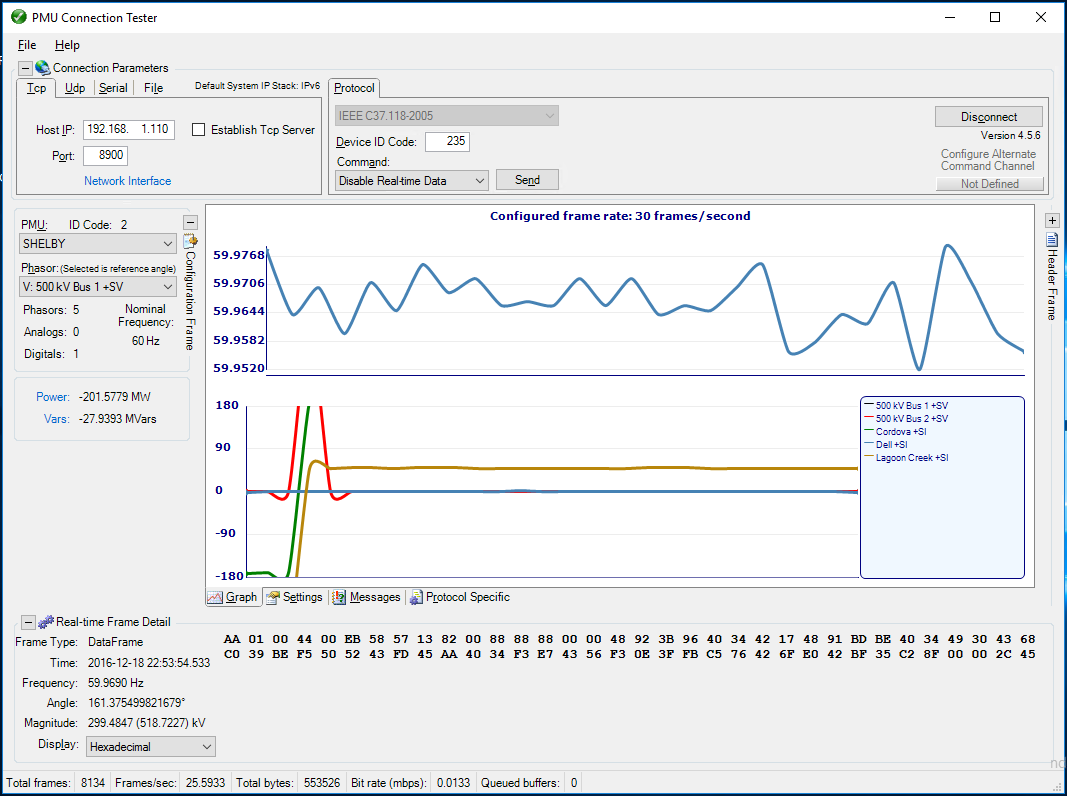
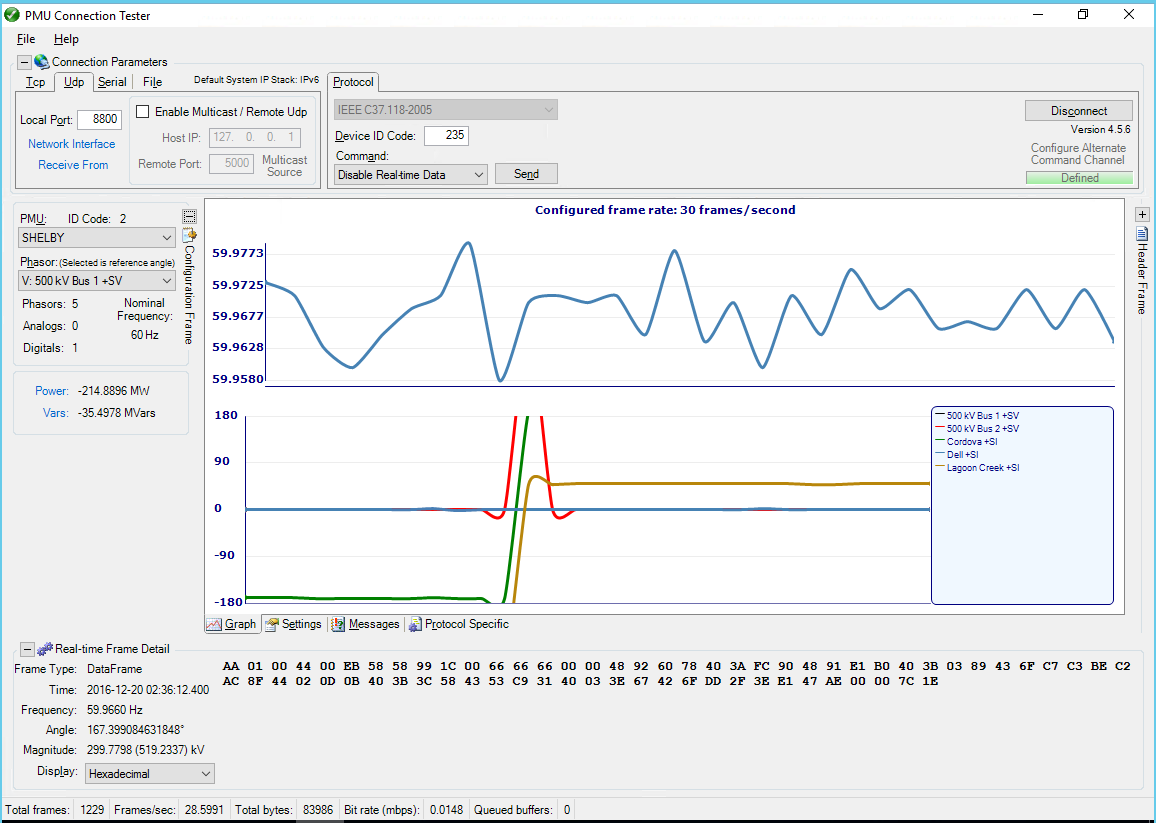
wiki/Development_Exercises updated

Changed region(s): [[0.0, 0.0, 1.0, 1.0], [0.1856, 0.6633, 0.2165, 0.6935], [0.1856, 0.5427, 0.2165, 0.5729]]

diff --git a/Source/Documentation/wiki/Exercise_openPDC_and_PMUConnectionTester_in_Windows2016.md b/Source/Documentation/wiki/Exercise_openPDC_and_PMUConnectionTester_in_Windows2016.md
@@ -375,8 +375,12 @@ C:\Users\Administrator> ping time.nist.gov
 
 1. Run the **openPDC Manager** application
 2. Click the *Outputs* menu and select *Concentrator Output Streams* and review the `TESTSTREAM` properties
-    - Set the *TCP Channel* text to "Port=8900;Interface=0.0.0.0" (this will force openPDC to use IPv4)
-    - Clear the *UDP Channel* text
+    - Set the *TCP Channel* text to "`Port=8900; maxSendQueueSize=-1; interface=0.0.0.0`" (this will force openPDC to use IPv4)
+        - Alternatively you can click the *Build Command Channel String* icon button (to the right of the *TCP Channel textbox)
+            - [![](Development_Exercises.files/openPDC_Manager_ManageOutputStreams_TCP_Channel_ConnectionStringBuilder.png)]()
+    - Set the *UDP Channel* text to "`port=-1; clients=localhost:8800,pmu-tester.gpa.net:8801; interface=0.0.0.0`"
+        - Alternatively you can click the *Build Command Channel String* icon button (to the right of the *UDP Channel textbox)
+            - [![](Development_Exercises.files/openPDC_Manager_ManageOutputStreams_UDP_Channel_ConnectionStringBuilder.png)]()
     - Click the *Save* button
     - Click the *Initialize* button
     - [![](Development_Exercises.files/openPDC_Manager_ManageOutputStreams_01.png "openPDC_Manager, ManageOutputStreams")]()
@@ -391,15 +395,21 @@ C:\Users\Administrator> ping time.nist.gov
     - Select the *Settings* tab (in the lower middle of the screen). In the *Applications Settings* section, set the following parameters:
         - Set the *ForceIPv4* value to `True`
         - Set the *MaximumFrameDisplayBytes* value to `512` (the IEEE C37-118 Configuration Frame Size)
-    - Select the *TCP* tab in the *Connection Parameters*
-        - Set the *Host IP* value to `192.168.1.110` (the `OPDC-01` Server's IPv4 Address)
-        - Set the *Port* value to `8900` (to match the openPDC Output Stream's *TCP Channel* Port#)
+    - Select the *UDP* tab in the *Connection Parameters*
+        - Set the *Local Port* value to `8800` (to match the openPDC Output Stream's *UDP Channel* Port#)
+        - Click the *Receive From* link and set *Use Specific Source IP* value to `192.168.1.110` (the `OPDC-01` Server's IPv4 Address)
+            - [![](Development_Exercises.files/PMUConnectionTester_openPDC_TestStream_Config_01A.png)]()
     - In the *Protocol* tab
         - Select the `IEEE C37.118.2005` protocol
+        - Click the *Configure Alternate Command Channel* link 
+            - Set the *Tcp Host IP* value to `192.168.1.110`
+            - Set the *Port* value to `8900`
+            - Clear the *Not defined* checkbox
+            - [![](Development_Exercises.files/PMUConnectionTester_openPDC_TestStream_Config_02A.png)]()
     - Click the *Connect* button
     - [![](Development_Exercises.files/PMUConnectionTester_openPDC_TestStreamTest_01.png "PMU Connection Tester, openPDC TestStream Test 1")]()
 
-### Configure the Windows Firewall on the `OPDC-01` Server for the Output Stream TCP Port 8900
+### Configure the Windows Firewall on the `OPDC-01` Server for the Output Stream TCP Port 8900 and UDP Ports 8800 to 8809
 
 **Do the following tasks in the `OPDC-01` Server:**
 
@@ -412,9 +422,17 @@ C:\Users\Administrator> ping time.nist.gov
     - *Protocol and Ports* = **TCP** and *Specific local ports* = **`8900`**
     - *Action* = **Allow the Connection**
     - *Profile* = Check all profiles.  Note: this exercise needs only the **Private** profile checked
-    - *Name* = **openPDC Output Steam TCP 8900**.  Note: this can be any name you want
-6. Make sure the new **openPDC Output Steam TCP 8900** *Inbound Rule* is *Enabled* and open it up to review its properties
-    - [![](Development_Exercises.files/Firewall_Inbound_Rule_TCP8900.png "openPDC Output Steam TCP 8900")]()
+    - *Name* = **openPDC Output Stream TCP 8900**.  Note: this can be any name you want
+6. Make sure the new **openPDC Output Stream TCP 8900* *Inbound Rule* is *Enabled* and open it up to review its properties
+    - [![](Development_Exercises.files/Firewall_Inbound_Rule_TCP8900.png "openPDC Output Stream TCP 8900")]()
+7. Create a new Inbound Rule using the *New Inbound Rule Wizard*
+    - *Rule Type* = **Port**
+    - *Protocol and Ports* = **UDP** and *Specific local ports* = **`8800-8809`** = a range of 10 ports starting at port# 8800
+    - *Action* = **Allow the Connection**
+    - *Profile* = Check all profiles.  Note: this exercise needs only the **Private** profile checked
+    - *Name* = **openPDC Output Stream UDP 8800**.  Note: this can be any name you want
+8. Make sure the new **openPDC Output Stream UDP 8800* *Inbound Rule* is *Enabled* and open it up to review its properties
+    - [![](Development_Exercises.files/Firewall_Inbound_Rule_UDP8800.png "openPDC Output Stream UDP 8800")]()
 
 ### Test the Output Stream over the Network with PMU Connection Tester
 
@@ -426,11 +444,17 @@ C:\Users\Administrator> ping time.nist.gov
     - Select the *Settings* tab (in the lower middle of the screen). In the *Applications Settings* section, set the following parameters:
         - Set the *ForceIPv4* value to `True`
         - Set the *MaximumFrameDisplayBytes* value to `512` (the IEEE C37-118 Configuration Frame Size)
-    - Select the *TCP* tab in the *Connection Parameters*
-        - Set the *Host IP* value to `192.168.1.110` (the `OPDC-01` Server's IPv4 Address)
-        - Set the *Port* value to `8900` (to match the openPDC Output Stream's *TCP Channel* Port#)
+    - Select the *UDP* tab in the *Connection Parameters*
+        - Set the *Local Port* value to `8801` (to match the openPDC Output Stream's *UDP Channel* Port#)
+        - Click the *Receive From* link and set *Use Specific Source IP* value to `192.168.1.110` (the `OPDC-01` Server's IPv4 Address)
+            - [![](Development_Exercises.files/PMUConnectionTester_openPDC_TestStream_Config_01B.png)]()
     - In the *Protocol* tab
         - Select the `IEEE C37.118.2005` protocol
+        - Click the *Configure Alternate Command Channel* link 
+            - Set the *Tcp Host IP* value to `192.168.1.110`
+            - Set the *Port* value to `8900`
+            - Clear the *Not defined* checkbox
+            - [![](Development_Exercises.files/PMUConnectionTester_openPDC_TestStream_Config_02B.png)]()
     - Click the *Connect* button
     - [![](Development_Exercises.files/PMUConnectionTester_openPDC_TestStreamTest_02.png "PMU Connection Tester, openPDC TestStream Test 2")]()
 2. If you get an error trying to connect and stream data, check the `OPDC-01` Server and make sure PMU Connection Tester is not still connected to the Output Stream.  If it is, then click *Disconnect* and try this step again.
@@ -443,7 +467,7 @@ C:\Users\Administrator> ping time.nist.gov
 
 ---
 
-Dec 18, 2016 - Created by [aj](https://github.com/ajstadlin)
+Dec 19, 2016 - Created by [aj](https://github.com/ajstadlin)
 
 ---
 
